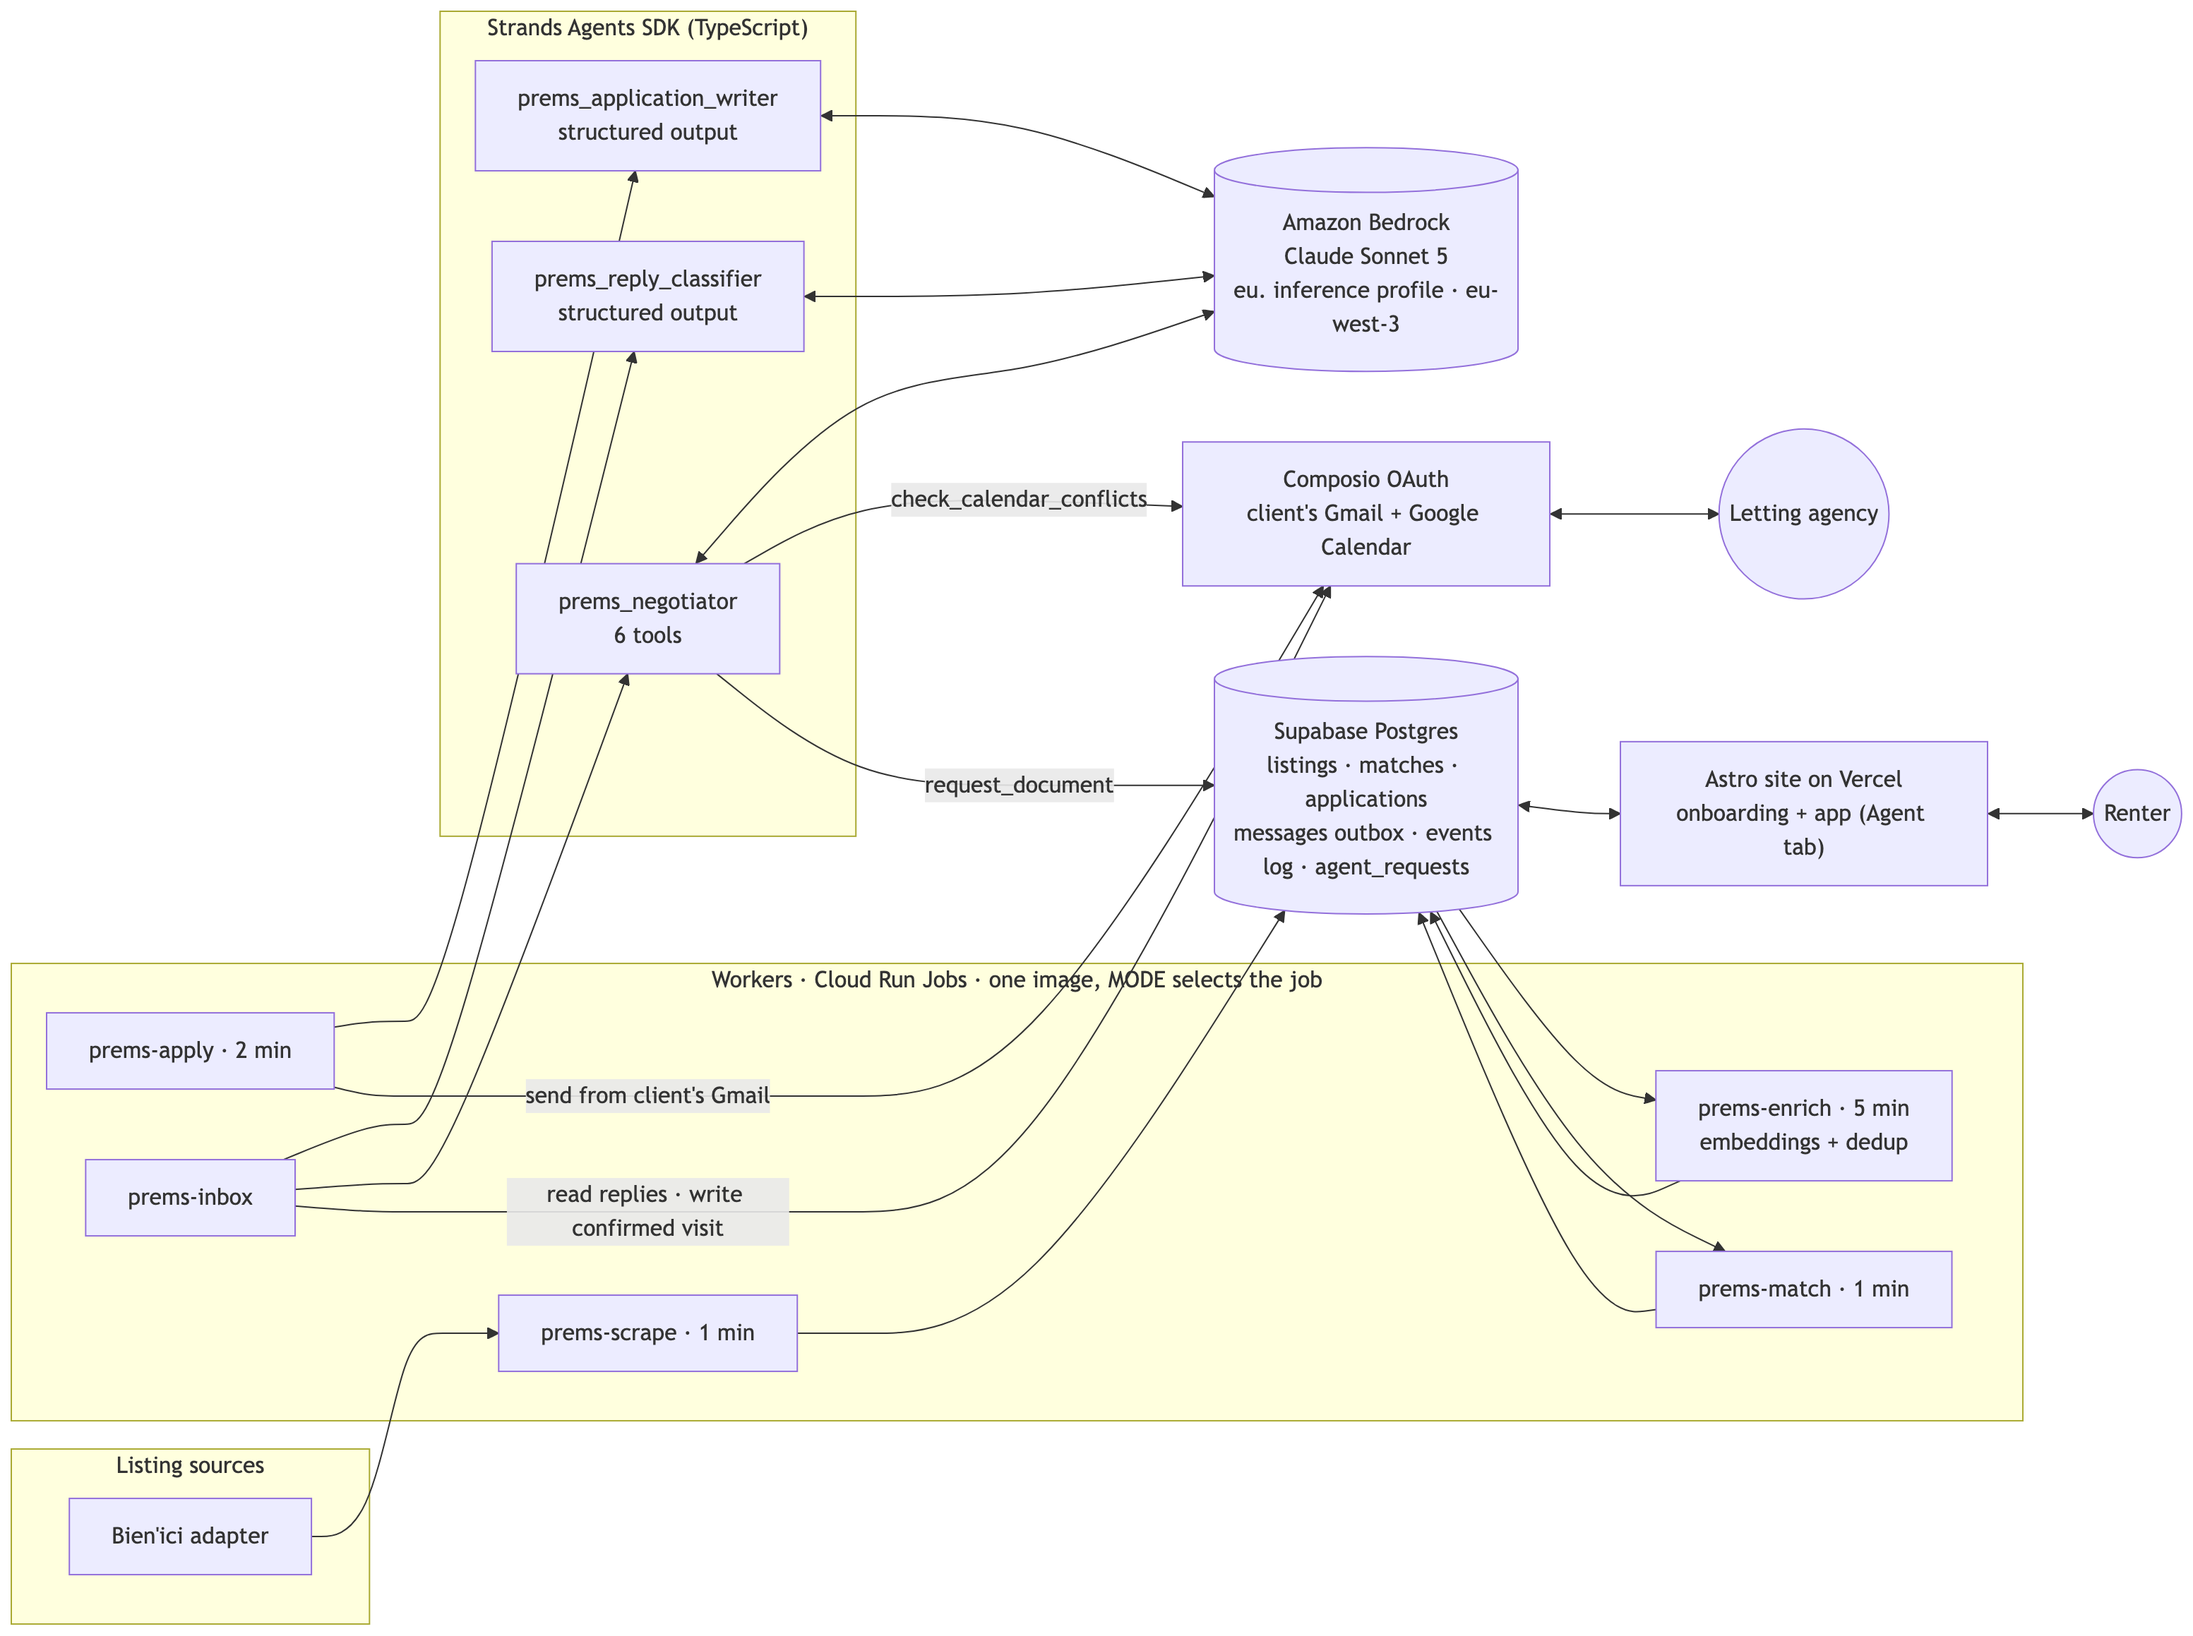
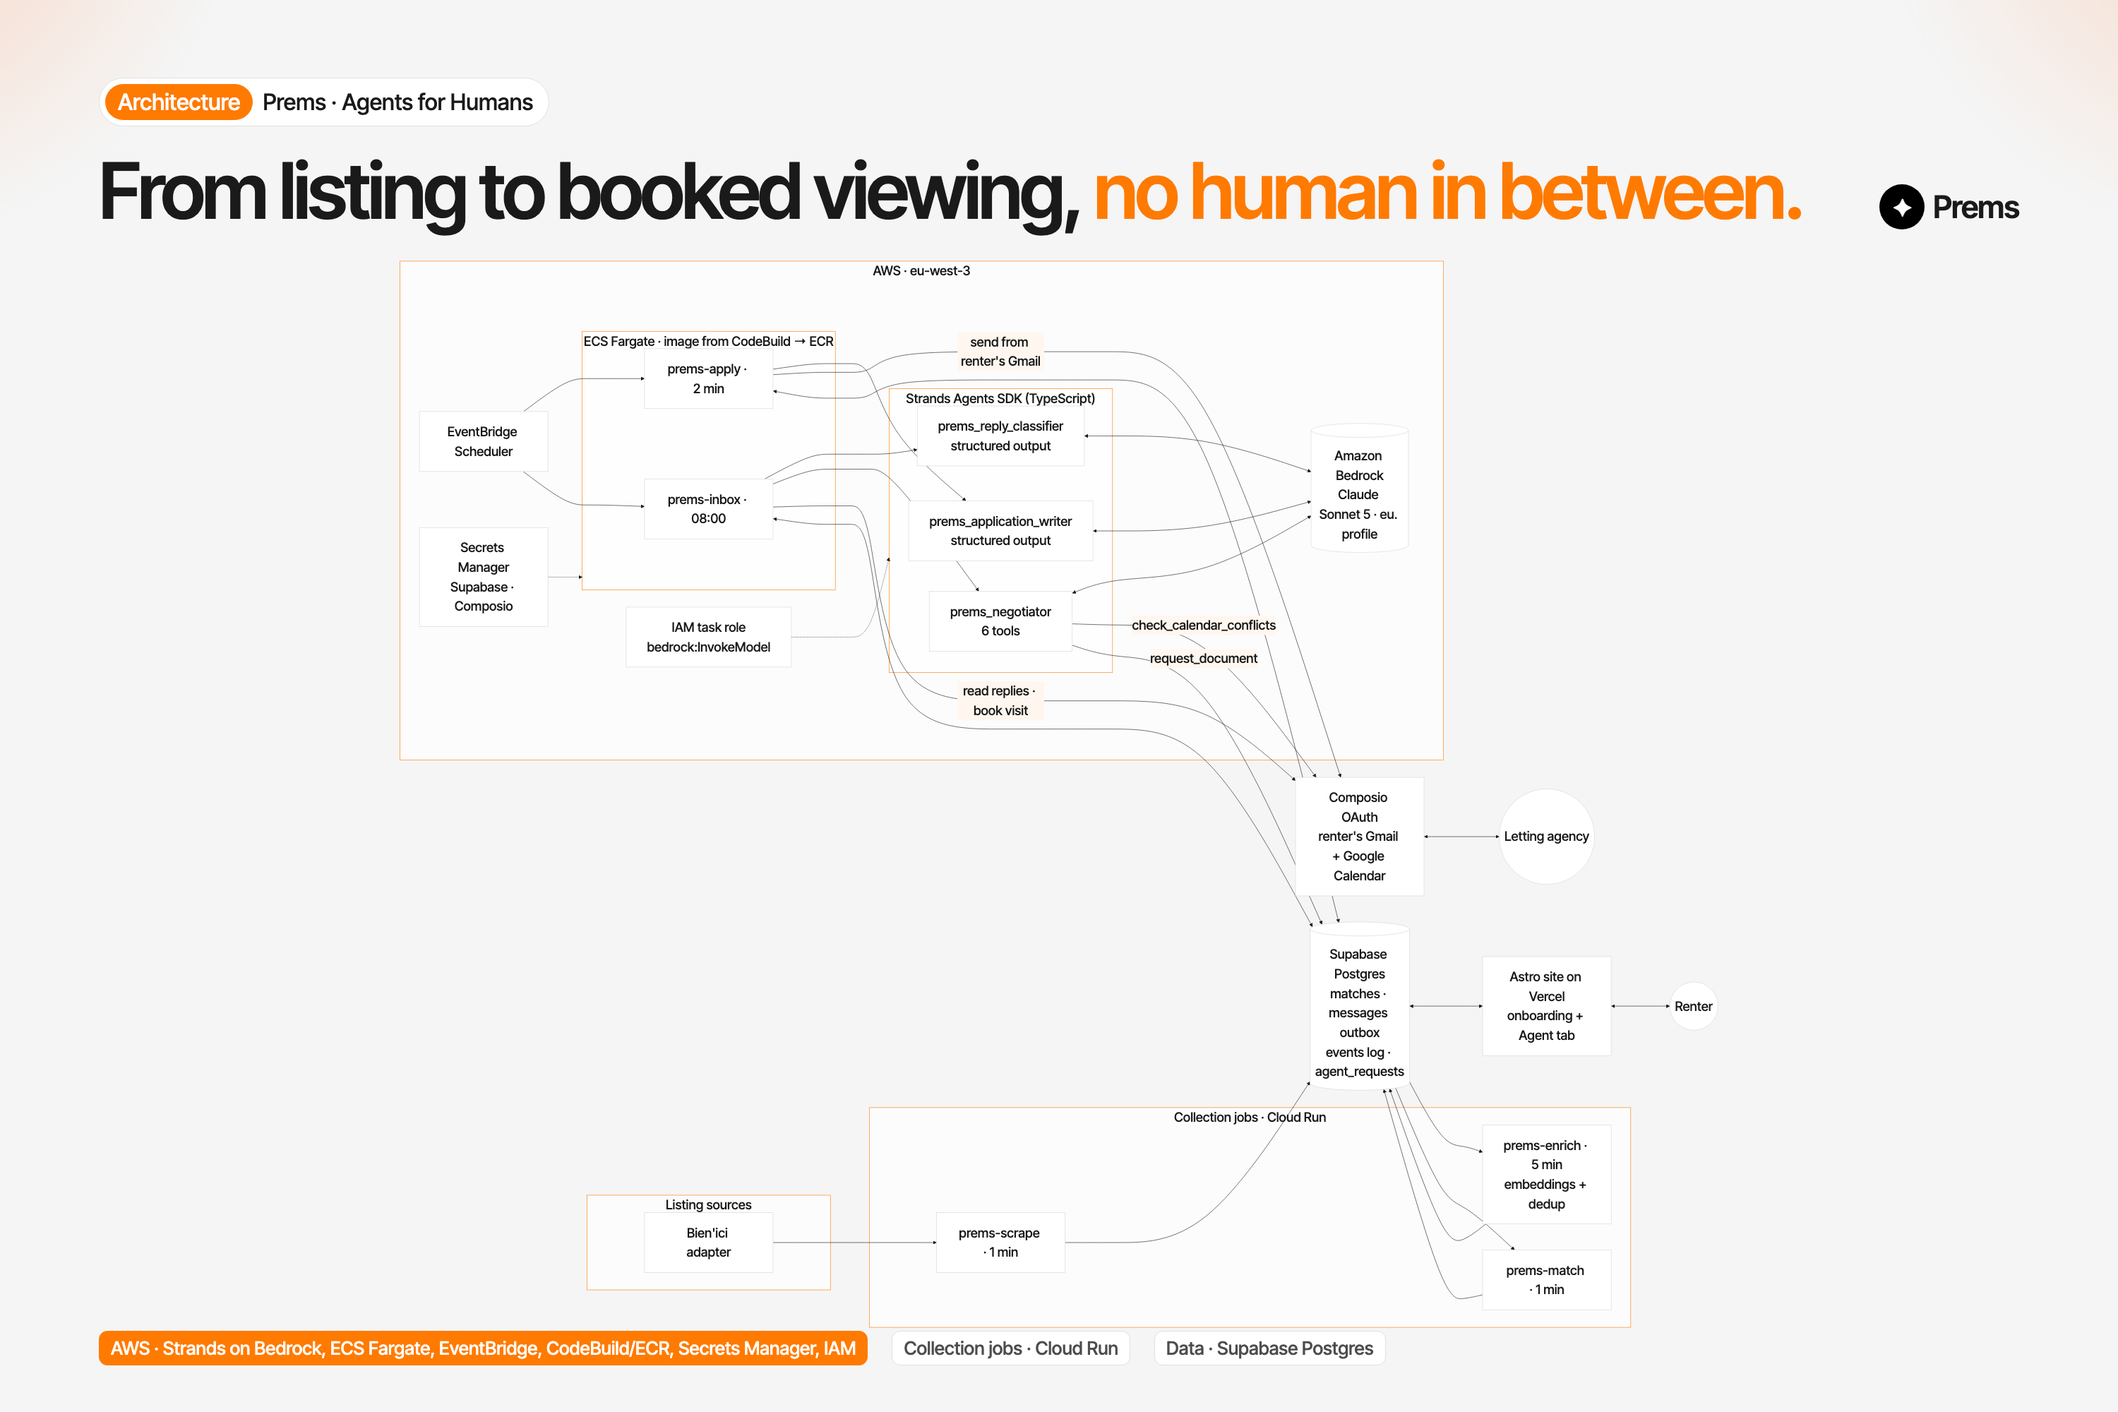
Show the AWS deployment in the architecture diagram

diff --git a/README.md b/README.md
@@ -52,38 +52,48 @@ flowchart LR
     BI["Bien'ici adapter"]
   end
 
-  subgraph RUN["Workers · Cloud Run Jobs · one image, MODE selects the job"]
+  subgraph GCP["Collection jobs · Cloud Run"]
     SCRAPE["prems-scrape · 1 min"]
     ENRICH["prems-enrich · 5 min<br/>embeddings + dedup"]
     MATCH["prems-match · 1 min"]
-    APPLY["prems-apply · 2 min"]
-    INBOX["prems-inbox"]
   end
 
-  subgraph STRANDS["Strands Agents SDK (TypeScript)"]
-    WRITER["prems_application_writer<br/>structured output"]
-    CLASSIFIER["prems_reply_classifier<br/>structured output"]
-    NEGOTIATOR["prems_negotiator<br/>6 tools"]
+  subgraph AWS["AWS · eu-west-3"]
+    SCHED["EventBridge Scheduler"]
+    subgraph ECS["ECS Fargate · image from CodeBuild → ECR"]
+      APPLY["prems-apply · 2 min"]
+      INBOX["prems-inbox · 08:00"]
+    end
+    subgraph STRANDS["Strands Agents SDK (TypeScript)"]
+      WRITER["prems_application_writer<br/>structured output"]
+      CLASSIFIER["prems_reply_classifier<br/>structured output"]
+      NEGOTIATOR["prems_negotiator<br/>6 tools"]
+    end
+    BEDROCK[("Amazon Bedrock<br/>Claude Sonnet 5 · eu. profile")]
+    SECRETS["Secrets Manager<br/>Supabase · Composio"]
+    IAM["IAM task role<br/>bedrock:InvokeModel"]
   end
 
-  BEDROCK[("Amazon Bedrock<br/>Claude Sonnet 5<br/>eu. inference profile · eu-west-3")]
-  DB[("Supabase Postgres<br/>listings · matches · applications<br/>messages outbox · events log · agent_requests")]
-  COMPOSIO["Composio OAuth<br/>client's Gmail + Google Calendar"]
-  WEB["Astro site on Vercel<br/>onboarding + app (Agent tab)"]
+  DB[("Supabase Postgres<br/>matches · messages outbox<br/>events log · agent_requests")]
+  COMPOSIO["Composio OAuth<br/>renter's Gmail + Google Calendar"]
+  WEB["Astro site on Vercel<br/>onboarding + Agent tab"]
   USER(("Renter"))
   AGENCY(("Letting agency"))
 
   BI --> SCRAPE --> DB
   DB --> ENRICH --> DB
   DB --> MATCH --> DB
+  SCHED --> APPLY & INBOX
+  SECRETS -.-> ECS
+  IAM -.-> STRANDS
   APPLY --> WRITER
-  INBOX --> CLASSIFIER
-  INBOX --> NEGOTIATOR
+  INBOX --> CLASSIFIER & NEGOTIATOR
   WRITER & CLASSIFIER & NEGOTIATOR <--> BEDROCK
   NEGOTIATOR -- "check_calendar_conflicts" --> COMPOSIO
   NEGOTIATOR -- "request_document" --> DB
-  APPLY -- "send from client's Gmail" --> COMPOSIO
-  INBOX -- "read replies · write confirmed visit" --> COMPOSIO
+  APPLY -- "send from renter's Gmail" --> COMPOSIO
+  INBOX -- "read replies · book visit" --> COMPOSIO
+  APPLY & INBOX <--> DB
   COMPOSIO <--> AGENCY
   DB <--> WEB <--> USER
 ```
